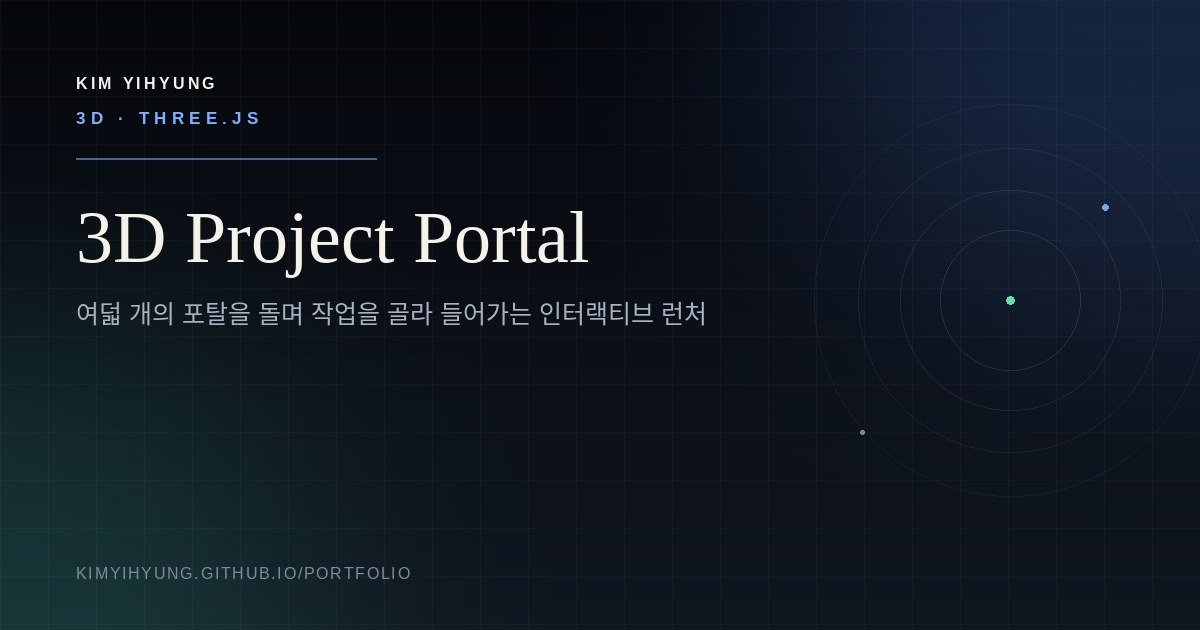
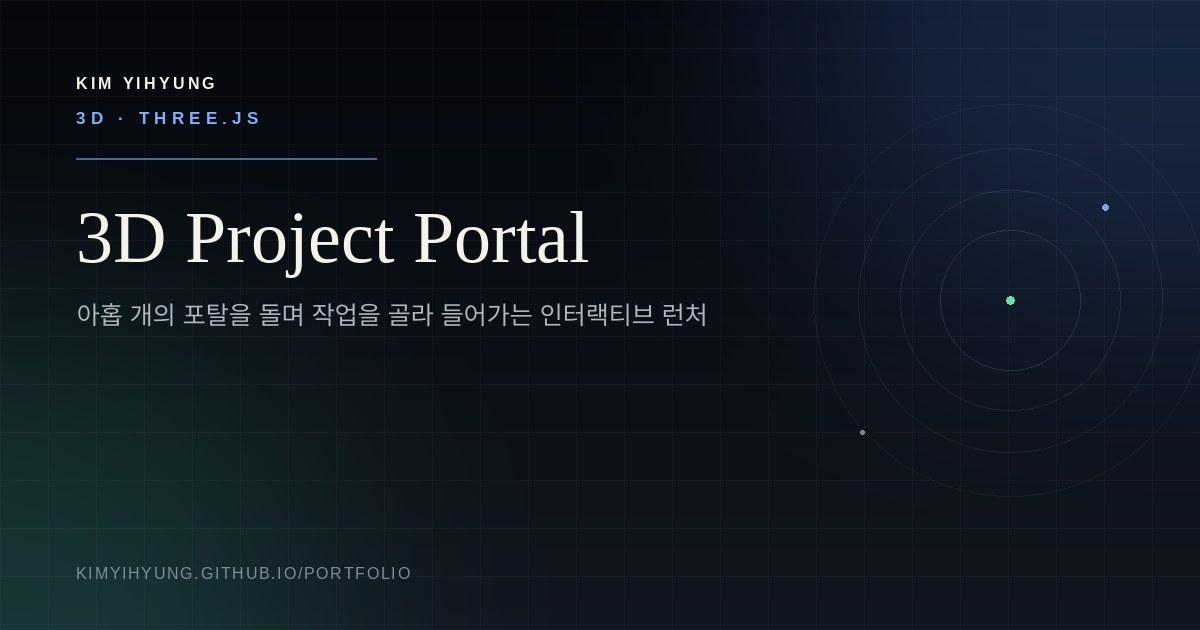
fix(copy): 구버전 숫자 문구 4곳 현행화 + 프로필 사진 404 제거
- 404.html: '업로드 없는 도구 5종'→19종, '여덟 개의 포탈'→아홉 개의 포탈
- tools/index.html 카드 14(3D Portal Launcher): eight→nine web and 3D builds,
  8 portals→9 portals (본문·EN·KO 사전 4곳)
- assets/img/og/tools.jpg: '도구 11종'→19종, '11 TOOLS'→19 TOOLS
- assets/img/og/3d.jpg: '여덟 개의 포탈'→아홉 개의 포탈
- css/style8.css·responsive.css: 없는 img/my_img-min.jpg 배경 참조 제거(페이지마다 404 1건)

Changed region(s): [[0.0617, 0.4825, 0.5858, 0.5127]]

diff --git a/tools/index.html b/tools/index.html
@@ -801,13 +801,13 @@ button { font-family: inherit; color: inherit; }
         </div>
         <h2><a href="/portfolio/3d/">3D Portal Launcher</a></h2>
         <p data-i18n-html="c7d">
-          A glass monolith ring holding <span class="hlgt">eight web and 3D builds</span>. Swipe or drag to orbit, tap a portal in the
+          A glass monolith ring holding <span class="hlgt">nine web and 3D builds</span>. Swipe or drag to orbit, tap a portal in the
           centre to step through.
         </p>
         <ul class="tags">
           <li>Three.js</li>
           <li data-i18n="c7t2">Touch</li>
-          <li data-i18n="c7t3">8 portals</li>
+          <li data-i18n="c7t3">9 portals</li>
         </ul>
         <div class="card-foot">
           <a class="open" href="/portfolio/3d/"><span data-i18n="cta3d">Enter Lab</span> <span class="arw" aria-hidden="true">→</span></a>
@@ -1066,8 +1066,8 @@ button { font-family: inherit; color: inherit; }
       c5t2: '6 slides',
       c6d: 'Real-time <span class="hlgt">liquid glass, iridescent metal and holographic mesh</span> backgrounds, rendered on your GPU. Five presets, PNG export, and one click to copy the CSS or GLSL behind it.',
       c6t2: '5 presets',
-      c7d: 'A glass monolith ring holding <span class="hlgt">eight web and 3D builds</span>. Swipe or drag to orbit, tap a portal in the centre to step through.',
-      c7t2: 'Touch', c7t3: '8 portals',
+      c7d: 'A glass monolith ring holding <span class="hlgt">nine web and 3D builds</span>. Swipe or drag to orbit, tap a portal in the centre to step through.',
+      c7t2: 'Touch', c7t3: '9 portals',
       c8d: 'Four rooms, twenty frames, <span class="hlgt">eight works on the walls</span>. Walk it on a phone with a joystick and touch look-around, or step to any room from the shortcut bar.',
       c8t2: 'Joystick', c8t3: '4 rooms',
       c9d: 'A neon dodge racer carved out of a <span class="hlgt">shader nebula</span>: thread glowing gates, graze crystals for combo, burn boost charges. Mouse, keys or touch — with a local high score and fully synthesised audio.',
@@ -1168,8 +1168,8 @@ button { font-family: inherit; color: inherit; }
       c5t2: '6장',
       c6d: 'GPU에서 실시간으로 그리는 <span class="hlgt">리퀴드 글라스·이리데센트 메탈·홀로그램 메시</span> 배경. 프리셋 5종, PNG 내보내기, 한 번의 클릭으로 CSS·GLSL 복사.',
       c6t2: '프리셋 5종',
-      c7d: '유리 모노리스 링 위에 <span class="hlgt">웹·3D 작업 8종</span>이 놓여 있습니다. 밀거나 끌어 회전하고, 가운데 포탈을 눌러 들어갑니다.',
-      c7t2: '터치', c7t3: '포탈 8개',
+      c7d: '유리 모노리스 링 위에 <span class="hlgt">웹·3D 작업 9종</span>이 놓여 있습니다. 밀거나 끌어 회전하고, 가운데 포탈을 눌러 들어갑니다.',
+      c7t2: '터치', c7t3: '포탈 9개',
       c8d: '전시실 4개, 액자 20개, <span class="hlgt">벽에 걸린 작품 8점</span>. 폰에서는 조이스틱과 터치 시선으로 걷고, 아래 바로 원하는 전시실로 이동합니다.',
       c8t2: '조이스틱', c8t3: '전시실 4개',
       c9d: '셰이더 성운에서 뽑아낸 네온 회피 레이서. 빛나는 게이트를 통과하고 크리스털을 스쳐 콤보를 쌓고 부스트를 태워 돌진합니다. 마우스·키·터치를 모두 받고, 최고 점수와 소리는 기기 안에서 끝납니다.',

diff --git a/404.html b/404.html
@@ -63,8 +63,8 @@
      This address moved or never existed — every live build is one tap away.</p>
   <div class="rule"></div>
   <nav>
-    <a class="card" href="/portfolio/tools/"><b>Browser Tools<span>업로드 없는 도구 5종</span></b><i>→</i></a>
-    <a class="card" href="/portfolio/3d/"><b>3D Project Portal<span>여덟 개의 포탈, Three.js</span></b><i>→</i></a>
+    <a class="card" href="/portfolio/tools/"><b>Browser Tools<span>업로드 없는 도구 19종</span></b><i>→</i></a>
+    <a class="card" href="/portfolio/3d/"><b>3D Project Portal<span>아홉 개의 포탈, Three.js</span></b><i>→</i></a>
     <a class="card" href="/portfolio/gallery/"><b>Virtual Gallery<span>네 개의 전시실을 걷는 3D 전시관</span></b><i>→</i></a>
     <a class="card" href="/portfolio/"><b>Portfolio<span>메인 포트폴리오로 돌아가기</span></b><i>→</i></a>
   </nav>

diff --git a/css/style8.css b/css/style8.css
@@ -151,9 +151,9 @@ header .header_nav a:focus-visible {
   justify-content: center;
 }
 #section1 .sec1_ani4 {
-  background: url(../img/my_img-min.jpg);
-  background-size: cover;
-  background-position: center center;
+  /* 프로필 사진은 공개 저장소에서 제외했다 — 없는 파일을 배경으로 두면
+     페이지마다 404 요청이 남는다. 자리 크기만 유지한다. */
+  background: none;
   width: 17vw;
   height: 22vw;
   transform: translate(-50%, -50%);

diff --git a/css/responsive.css b/css/responsive.css
@@ -480,8 +480,8 @@
     margin: clamp(26px, 6vw, 44px) auto clamp(28px, 6vw, 46px);
     border: 0;
     border-radius: 20px;
-    background: url(../img/my_img-min.jpg) center center / cover no-repeat,
-      #1a1712;
+    /* 프로필 사진은 공개 저장소에 없다(제외) — 404 요청을 만들지 않도록 색만 남긴다 */
+    background: #1a1712;
     box-shadow: 0 28px 60px rgba(0, 0, 0, 0.55),
       0 0 0 1px rgba(244, 239, 228, 0.14);
     overflow: hidden;
